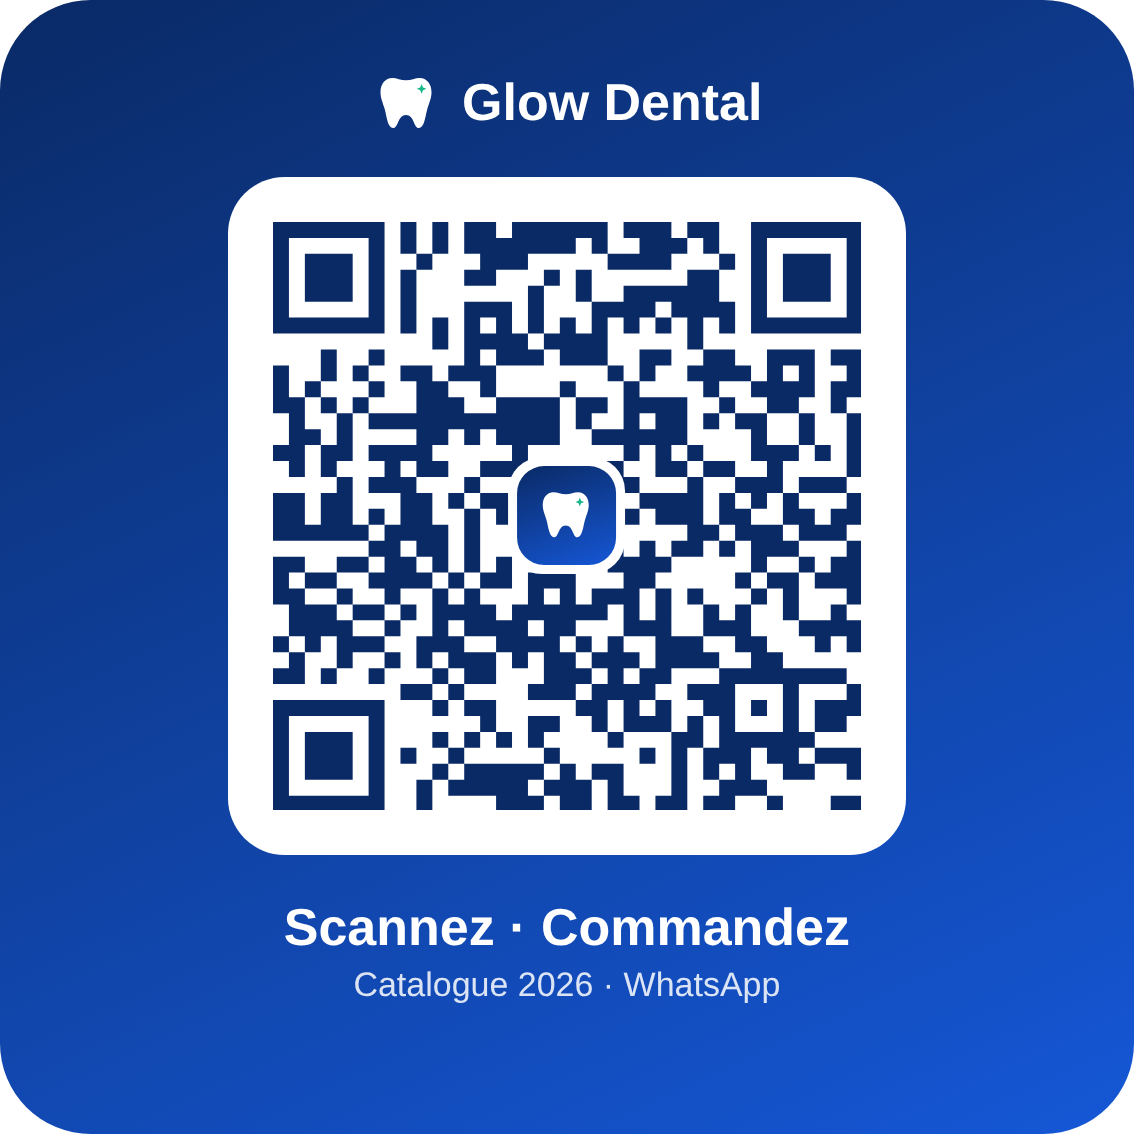
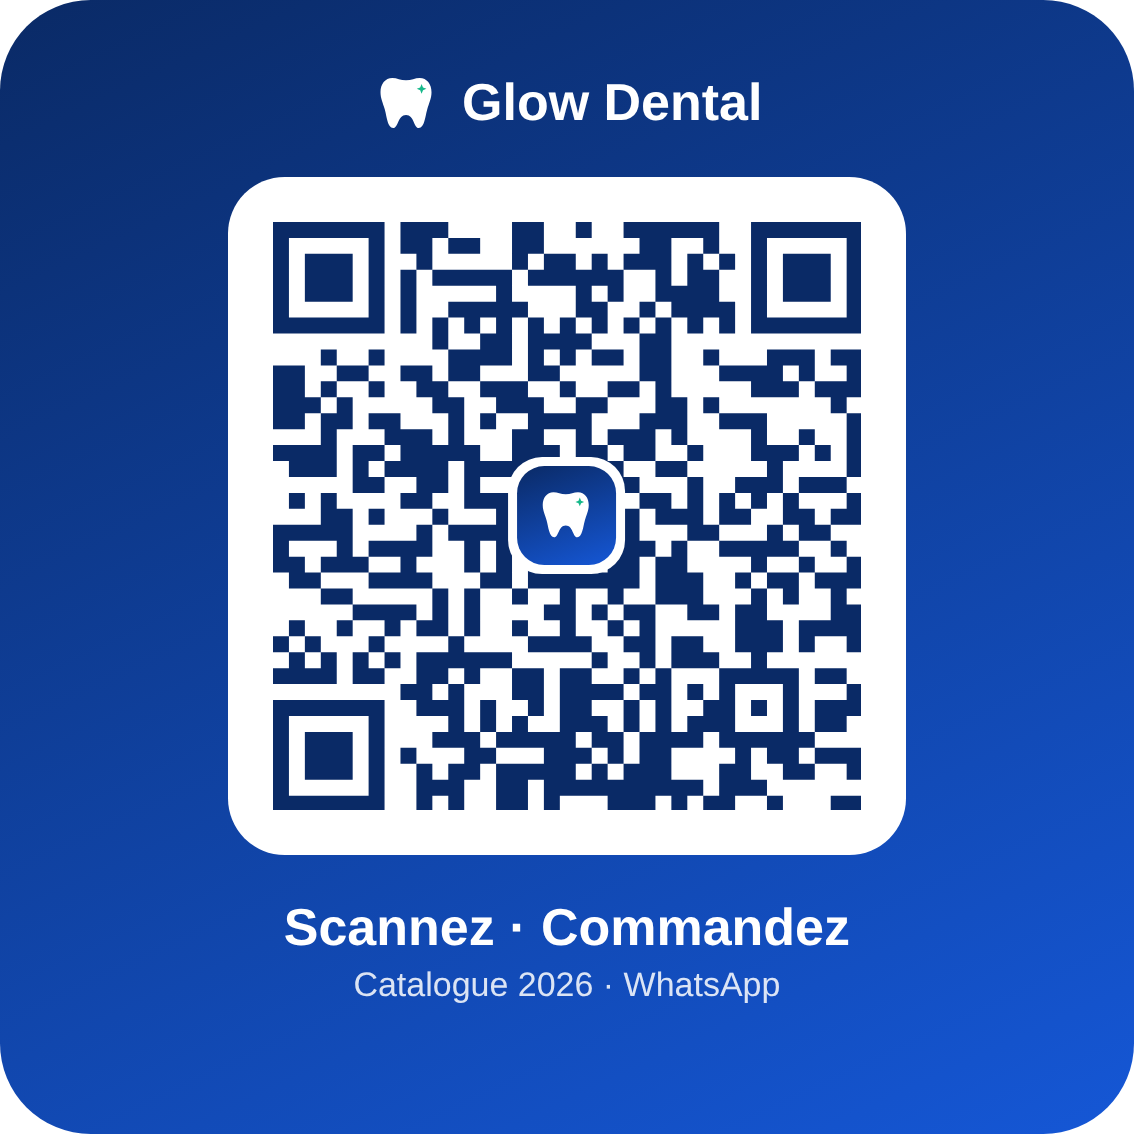
Lien final glow-dental-maroc-93ik.vercel.app + QR
Claude-Session: https://claude.ai/code/session_01EXeLAP9KZct5yrxAi5sXFy

diff --git a/index.html b/index.html
@@ -9,8 +9,8 @@
 <meta property="og:type" content="website">
 <meta property="og:title" content="Glow Dental — Catalogue 2026">
 <meta property="og:description" content="284 produits dentaires avec prix. Commandez en 1 minute via WhatsApp.">
-<meta property="og:image" content="https://glow-dental-maroc.vercel.app/og.jpg">
-<meta property="og:url" content="https://glow-dental-maroc.vercel.app/">
+<meta property="og:image" content="https://glow-dental-maroc-93ik.vercel.app/og.jpg">
+<meta property="og:url" content="https://glow-dental-maroc-93ik.vercel.app/">
 <meta name="twitter:card" content="summary_large_image">
 <link rel="manifest" href="manifest.webmanifest">
 <link rel="icon" type="image/png" href="icons/icon-192.png">

diff --git a/app.js b/app.js
@@ -4,7 +4,7 @@ const CONFIG = {
   whatsapp: "",   // numéro li katwsel 3lih les commandes, ex: "212612345678" (bla + w bla espaces)
   apiUrl: "",     // lien Apps Script (…/exec). Khawi = l-site khddam b data/products.json w bla Google Sheet
   address: "72 Rue Bni Drar, Tabriquet, Salé",
-  site: "https://glow-dental-maroc.vercel.app"
+  site: "https://glow-dental-maroc-93ik.vercel.app"
 };
 /* ================================= */
 
